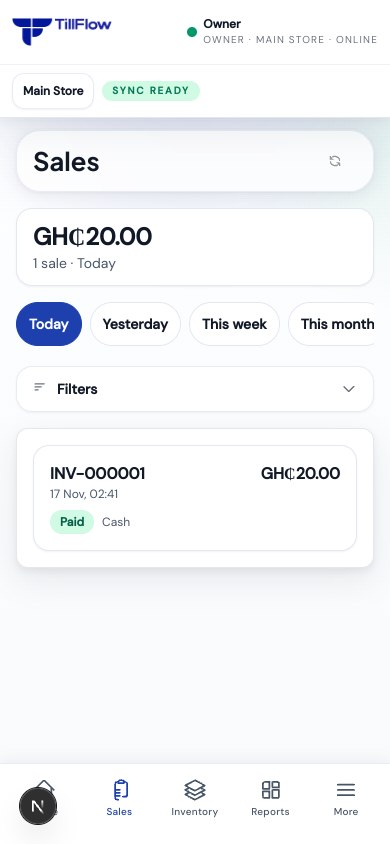
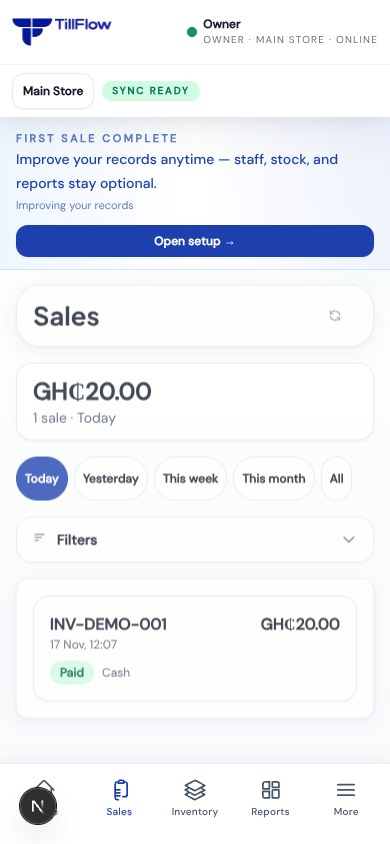
Show page scope and keep all phone date chips visible

diff --git a/app/(protected)/inventory/page.tsx b/app/(protected)/inventory/page.tsx
@@ -160,22 +160,22 @@ export default async function InventoryPage(props: { searchParams?: Promise<{ q?
         <div className="rounded-2xl border border-black/5 bg-white px-3 py-2 shadow-card lg:px-4 lg:py-3">
           <div className="text-xs font-semibold uppercase tracking-[0.14em] text-black/45">Products</div>
           <div className="mt-1 text-xl font-bold tabular-nums lg:mt-2 lg:text-2xl text-ink">{totalCount}</div>
-          <div className="mt-1 hidden text-xs text-black/50 lg:block">Active in catalogue</div>
+          <div className="mt-0.5 text-[11px] leading-tight text-black/50 lg:mt-1 lg:text-xs"><span className="hidden lg:inline">Active </span><span className="lg:hidden">In catalogue</span><span className="hidden lg:inline">in catalogue</span></div>
         </div>
         <div className="rounded-2xl border border-amber-200 bg-amber-50 px-3 py-2 shadow-card lg:px-4 lg:py-3">
           <div className="text-xs font-semibold uppercase tracking-[0.14em] text-amber-700/70">Low stock</div>
           <div className="mt-1 text-xl font-bold tabular-nums lg:mt-2 lg:text-2xl text-amber-800">{lowStockCount}</div>
-          <div className="mt-1 hidden text-xs text-amber-600/70 lg:block">On this page</div>
+          <div className="mt-0.5 text-[11px] leading-tight text-amber-800 lg:mt-1 lg:text-xs lg:text-amber-600/70">On this page</div>
         </div>
         <div className="rounded-2xl border border-rose-200 bg-rose-50 px-3 py-2 shadow-card lg:px-4 lg:py-3">
           <div className="text-xs font-semibold uppercase tracking-[0.14em] text-rose-700/70">Out of stock</div>
           <div className="mt-1 text-xl font-bold tabular-nums lg:mt-2 lg:text-2xl text-rose-700">{outOfStockCount}</div>
-          <div className="mt-1 hidden text-xs text-rose-600/70 lg:block">On this page</div>
+          <div className="mt-0.5 text-[11px] leading-tight text-rose-800 lg:mt-1 lg:text-xs lg:text-rose-600/70">On this page</div>
         </div>
         <div className="rounded-2xl border border-sky-200 bg-sky-50 px-3 py-2 shadow-card lg:px-4 lg:py-3">
           <div className="text-xs font-semibold uppercase tracking-[0.14em] text-sky-700/70"><span className="lg:hidden">Needs a look</span><span className="hidden lg:inline">Cost drift</span></div>
           <div className="mt-1 text-xl font-bold tabular-nums lg:mt-2 lg:text-2xl text-sky-800">{costDriftCount}</div>
-          <div className="mt-1 hidden text-xs text-sky-600/70 lg:block">Avg cost differs on this page</div>
+          <div className="mt-0.5 text-[11px] leading-tight text-sky-800 lg:mt-1 lg:text-xs lg:text-sky-600/70"><span className="lg:hidden">On this page</span><span className="hidden lg:inline">Avg cost differs on this page</span></div>
         </div>
       </div>
 

diff --git a/app/(protected)/sales/page.tsx b/app/(protected)/sales/page.tsx
@@ -175,13 +175,13 @@ export default async function SalesPage(
           {totalPages > 1 ? ' · Amount on this page' : ''}
         </p>
       </div>
-      <nav aria-label="Sales date range" className="flex max-w-full gap-2 overflow-x-auto pb-1 lg:hidden">
+      <nav aria-label="Sales date range" className="flex max-w-full flex-wrap gap-1.5 lg:hidden">
         {presets.map(({ label, from, to }) => {
           const query = new URLSearchParams({ from, to });
           if (q) query.set('q', q);
           if (selectedStoreId !== 'ALL') query.set('storeId', selectedStoreId);
           return <a key={label} href={`/sales?${query}`} aria-current={label === activePreset?.label ? 'true' : undefined}
-            className={`inline-flex min-h-11 shrink-0 items-center rounded-full border px-3 text-sm font-semibold ${label === activePreset?.label ? 'border-accent bg-accent text-white' : 'border-slate-200 bg-white text-ink'}`}>{label}</a>;
+            className={`inline-flex min-h-11 shrink-0 items-center rounded-full border px-2 text-xs font-semibold sm:px-3 sm:text-sm ${label === activePreset?.label ? 'border-accent bg-accent text-white' : 'border-slate-200 bg-white text-ink'}`}>{label}</a>;
         })}
       </nav>
 

diff --git a/components/mobile-sales-inventory.test.tsx b/components/mobile-sales-inventory.test.tsx
@@ -52,7 +52,8 @@ it('puts search before the compact stock tiles and leaves card details closed', 
   const tiles = screen.getByLabelText('Stock summary');
   expect(search.compareDocumentPosition(tiles) & Node.DOCUMENT_POSITION_FOLLOWING).toBeTruthy();
   expect(within(tiles).getByText('Needs a look')).toHaveClass('lg:hidden');
-  expect(within(tiles).getAllByText('On this page').every(node => node.classList.contains('hidden'))).toBe(true);
+  expect(within(tiles).getAllByText('On this page')).toHaveLength(3);
+  expect(within(tiles).getByText('In catalogue')).toBeVisible();
   const cards = [...container.querySelectorAll('details')].filter(detail => detail.querySelector('summary')?.textContent === 'Details');
   expect(cards).toHaveLength(3);
   expect(cards.every(card => !card.open)).toBe(true);
